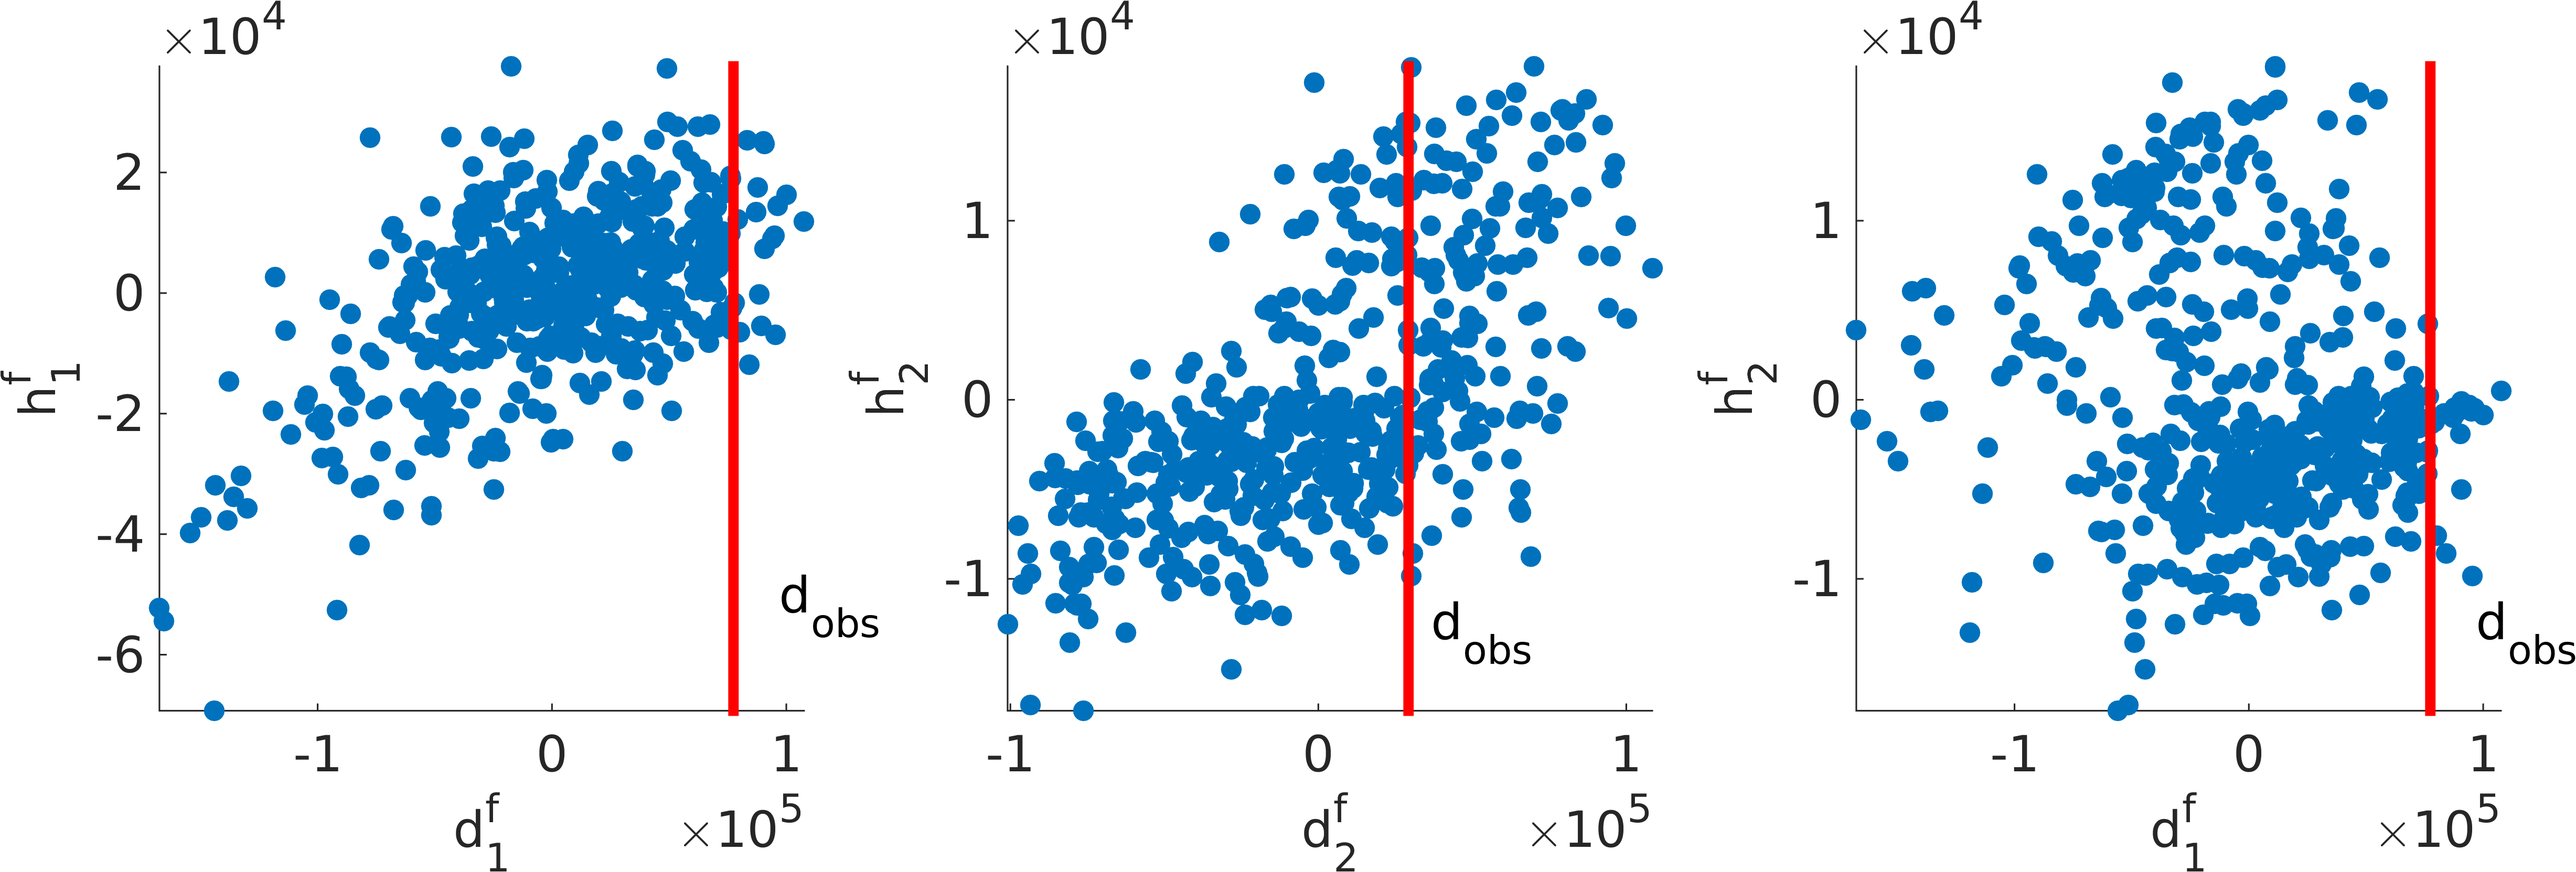
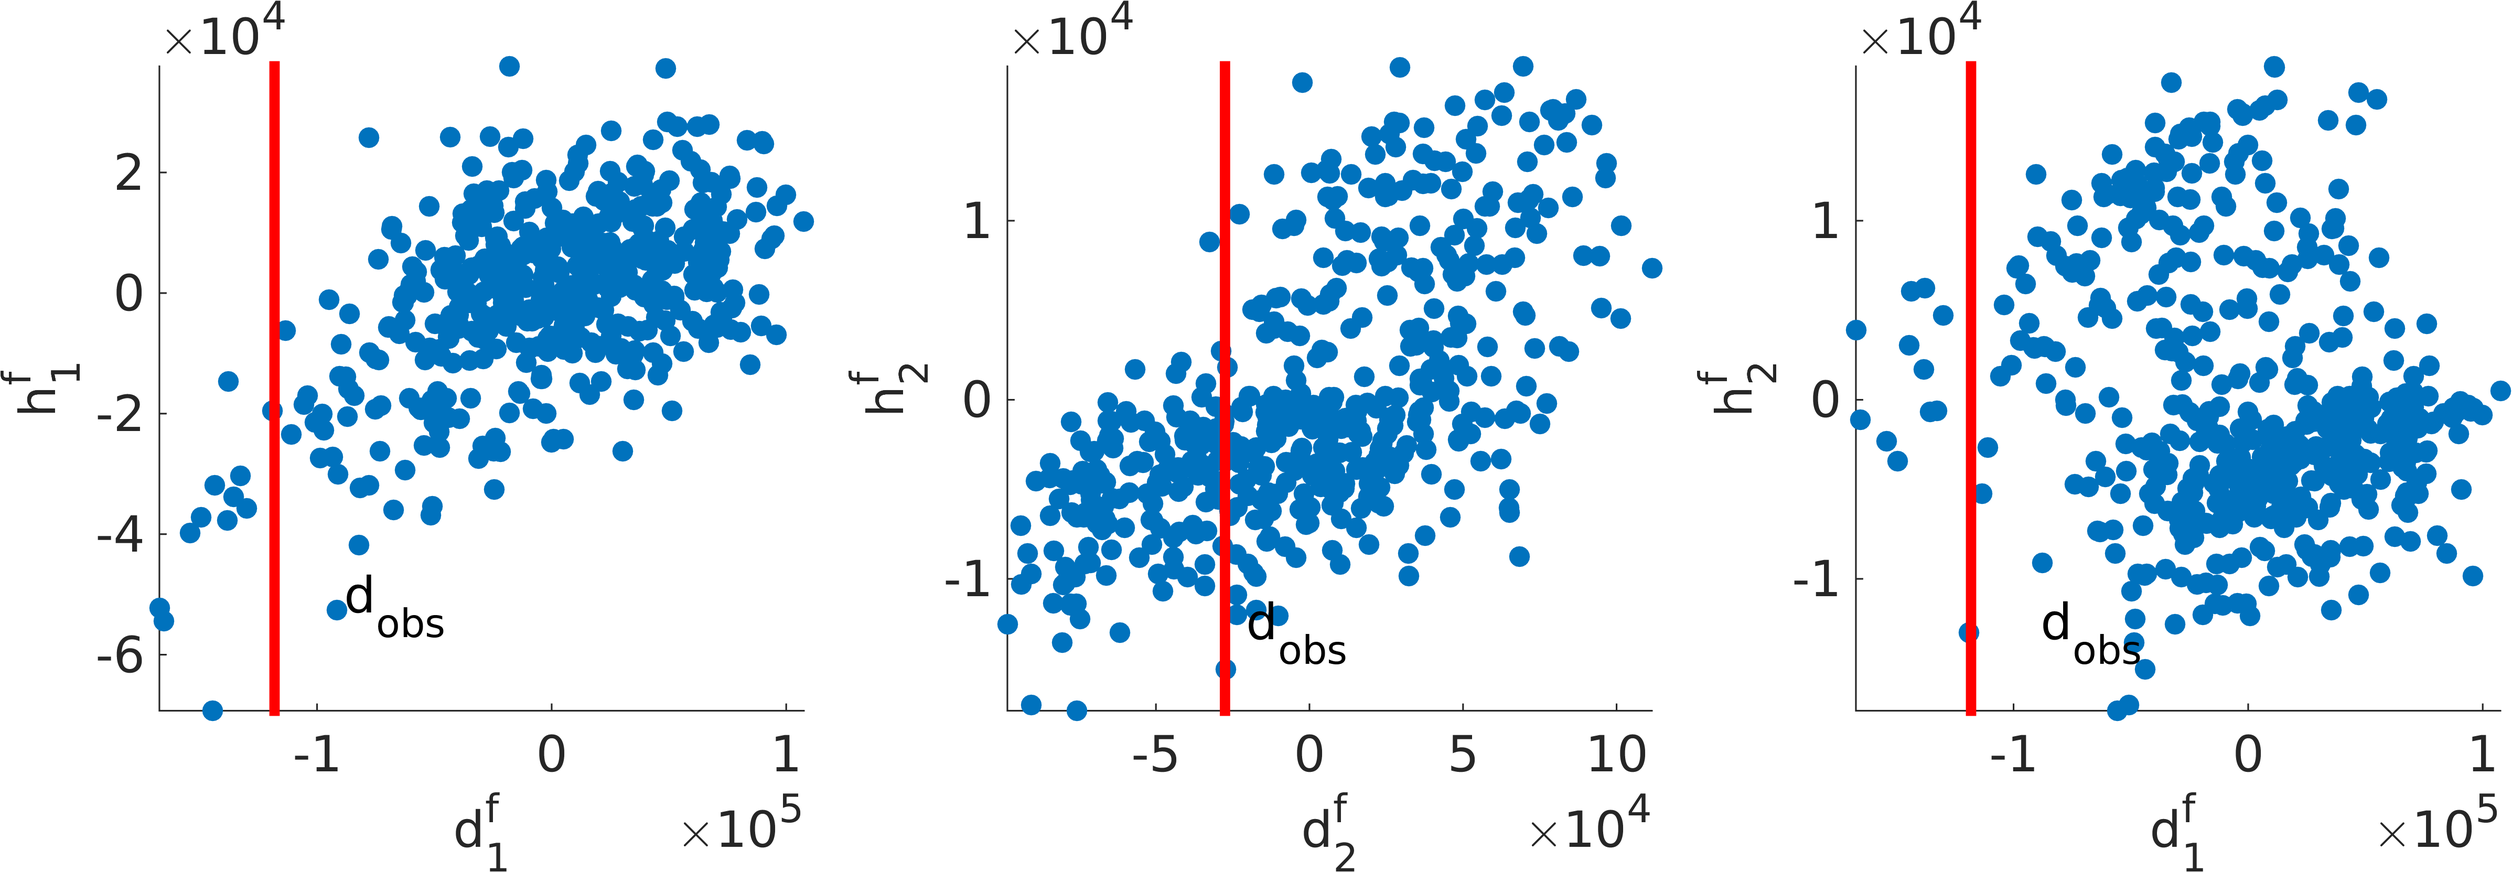
Added capability to account for measurement noise

diff --git a/src/demo/LibyanCase_2.m b/src/demo/LibyanCase_2.m
@@ -5,7 +5,7 @@ NumRealizations = 500;
 addpath('../util');
 
 load('../../data/Case2/PriorModels/Prior.mat');
-CaseName = 'LibyanCase2';
+CaseName = 'NoiseLevel500';
 %% Generate Data Structs
 ForecastColumn = 4;
 HistoricalColumn = 4;
@@ -30,7 +30,7 @@ ForecastStruct.time = linspace(3500,7500,length(ForecastStruct.time));
 
 %%
 % Set aside one realization that we will deem the "reference";
-TruthRealization = 12;
+TruthRealization = 120;
 
 close all;
 % Plot to verify data structures/choice of input/output
@@ -60,8 +60,9 @@ predPCA = ComputeHarmonicScores(ForecastStruct,3,SaveFolder);
 % after FPCA. Keeping too many eigenvalues may need to highly oscillating
 % posterior times series; while keeping too little results in oversmoothed
 % and unrealistic models
-EigenvalueTolerance = 0.95;
+EigenvalueTolerance = 0.9;
 OutlierPercentile = 95;
+epsilon = 500;
 
 % Run CFCA: The results are the mean/covariance of h*(in Gaussian space)
 % and Dc,Hc are the prior model coefficients in the canonical space
@@ -69,22 +70,23 @@ PlotLevel = 1;
 FontSize = 24;
 [ mu_posterior, C_posterior, Dc, Df, Hc, Hf, B, dobs_c] = ComputeCFCAPosterior(...
     HistoricalStruct, ForecastStruct, TruthRealization, EigenvalueTolerance,...
-    OutlierPercentile,PlotLevel,FontSize,SaveFolder);
+    OutlierPercentile,PlotLevel,FontSize,SaveFolder,epsilon);
 
 %% Sample from CFCA posterior and transform forecasts back into time domain
-NumPosteriorSamples = 100;
+close all;
+NumPosteriorSamples = 1000;
 
 [SampledPosteriorRealizations,Hf_post]= SampleCanonicalPosterior(...
     mu_posterior,C_posterior,NumPosteriorSamples,Hc,B,Hf,...
     ForecastStruct.time,predPCA,0,0,0,SaveFolder);
 
-% % Compute quantiles
-% [PriorQuantiles, PosteriorQuantiles] = ComputeQuantiles(...
-%     ForecastStruct.data, SampledPosteriorRealizations);
-% 
-% % Plot sampled responses and quantiles
-% PlotPosteriorSamplesAndQuantiles(ForecastStruct,TruthRealization, ...
-%     SampledPosteriorRealizations,PriorQuantiles,PosteriorQuantiles);
-% 
-% display(['Average Posterior Distance: ' num2str(mean(PosteriorQuantiles(3,:) - ...
-%     PosteriorQuantiles(1,:)))]);
+% Compute quantiles
+[PriorQuantiles, PosteriorQuantiles] = ComputeQuantiles(...
+    ForecastStruct.data, SampledPosteriorRealizations);
+close all;
+% Plot sampled responses and quantiles
+PlotPosteriorSamplesAndQuantiles(ForecastStruct,TruthRealization, ...
+    SampledPosteriorRealizations,PriorQuantiles,PosteriorQuantiles,SaveFolder);
+
+display(['Average Posterior Distance: ' num2str(mean(PosteriorQuantiles(3,:) - ...
+    PosteriorQuantiles(1,:)))]);

diff --git a/src/cfca/ComputeCFCAPosterior.m b/src/cfca/ComputeCFCAPosterior.m
@@ -1,6 +1,6 @@
 function [ mu_posterior, C_posterior,Dc,Df,Hc,Hf, B, dobs_c] = ...
     ComputeCFCAPosterior(HistoricalStruct, ForecastStruct, TruthRealization, ...
-    EigenTolerance,OutlierPercentile,PlotLevel,FontSize,SavePath)
+    EigenTolerance,OutlierPercentile,PlotLevel,FontSize,SavePath,epsilon)
 %ComputeCFCAPosterior Computes posterior distribution of forecasts
 %conditioned to d_obs
 %   Performs CFCA to compute posterior mean and covariance in canonical
@@ -111,12 +111,12 @@ dobs_c=(dobs_fpca-mean(score))*A;
 
 if (PlotLevel == 1)
     PlotLowDimModels(Dc,Hc,dobs_c,'c',FontSize);
-     if SaveOn == true
-            export_fig([SavePath 'Dc_Hc'], '-png','-m3');
-     end
+    if SaveOn == true
+        export_fig([SavePath 'Dc_Hc'], '-png','-m3');
+    end
     PlotLowDimModels(Df,Hf,dobs_fpca,'f',FontSize);
     if SaveOn == true
-            export_fig([SavePath 'Df_Hf'], '-png','-m3');
+        export_fig([SavePath 'Df_Hf'], '-png','-m3');
     end
 end
 
@@ -130,9 +130,19 @@ G = Dc'/Hc_gauss';
 DDiff= Dc'-G*Hc_gauss';
 C_T = DDiff*DDiff'/length(Dc);
 
+
+if epsilon ==0
+    C_Dc = zeros(size(C_T));
+else
+    C_Df = EstimateFunctionalErrorCovariance( HistoricalStruct,EigenTolerance,epsilon);
+    C_Dc = A'*C_Df*A;
+end
+
+
 % Perform Gaussian Regression
-mu_posterior = H_CG_Mean + C_H*G'*pinv(G*C_H*G' + C_T)*(dobs_c'-G*H_CG_Mean);
-C_posterior = inv(G'*pinv(C_T)*G + inv(C_H));
+mu_posterior = H_CG_Mean + C_H*G'*pinv(G*C_H*G' + C_T+C_Dc)*(dobs_c'-G*H_CG_Mean);
+C_posterior = C_H - C_H*G'*inv(G*C_H*G' + C_T+C_Dc)*G*C_H;
+%C_posterior = inv(G'*pinv(C_T)*G + inv(C_H));
 
 end
 

diff --git a/src/cfca/ComputeMixedPCAScores.m b/src/cfca/ComputeMixedPCAScores.m
@@ -1,0 +1,49 @@
+function [ score ] = ComputeMixedPCAScores( HistoricalStruct,EigenTolerance )
+%UNTITLED3 Summary of this function goes here
+%   Detailed explanation goes here
+
+% Compute d_f for noiseless
+NummRealizations = size(HistoricalStruct.data,1);
+NumTimeSteps = size(HistoricalStruct.data,2);
+NumHistoricalResponses = size(HistoricalStruct.data,3);
+PlotLevelPCA = 0;
+MinEigenValues = 2;
+
+
+histPCA = ComputeHarmonicScores(HistoricalStruct,PlotLevelPCA);
+
+
+% Get number of required harmonics required for forecasts
+nHarmHist = 0;
+for i = 1:NumHistoricalResponses
+    responseNumHarms = GetNumHarmonics(histPCA{i},...
+        MinEigenValues,EigenTolerance);
+    nHarmHist = max(nHarmHist,responseNumHarms);
+end
+
+% Generate matrix of historical harmonic scores
+Df = zeros(NummRealizations,nHarmHist*NumHistoricalResponses);
+
+% Iterate over each historical response (ex: P1, P2)
+for i = 1:NumHistoricalResponses
+    harmscrhist=histPCA{i}.harmscr;
+    
+    % Need to re-arrange harmonic scores into Df such that the first
+    % eigenvalues are placed in first
+    for j = 1:nHarmHist
+        Df(:,(i-1)*nHarmHist + j) = harmscrhist(:,j);
+    end
+end
+
+
+% Run PCA On Df
+% Poor naming choice by FDA package... we need to remove it from the path
+% in order to run PCA
+rmpath('../../thirdparty/fda_matlab');
+DfStar = Df;
+[~,score,~] = pca(DfStar);
+
+
+
+end
+

diff --git a/src/cfca/EstimateFunctionalErrorCovariance.m b/src/cfca/EstimateFunctionalErrorCovariance.m
@@ -1,0 +1,32 @@
+function [ C_f ] = EstimateFunctionalErrorCovariance( HistoricalStruct, EigenTolerance,epsilon)
+%EstimateFunctionalErrorCovariance Uses a Monte Carlo approach to compute
+%   Detailed explanation goes here
+addpath('../cfca');
+% Step 1: Extract
+
+NummRealizations = size(HistoricalStruct.data,1);
+NumTimeSteps = size(HistoricalStruct.data,2);
+NumHistoricalResponses = size(HistoricalStruct.data,3);
+
+
+noiseless_scores = ComputeMixedPCAScores(HistoricalStruct,EigenTolerance);
+
+% 
+df_error = zeros(size(noiseless_scores));
+
+for i = 1:NummRealizations
+     fprintf('Working on realization %d\n',i)
+     NoisyStruct = HistoricalStruct;
+     
+     NoisyStruct.data(i,:,:) = HistoricalStruct.data(i,:,:) + ...
+         randn(1,NumTimeSteps,NumHistoricalResponses)*epsilon;
+     
+     noisy_score = ComputeMixedPCAScores(NoisyStruct,EigenTolerance);
+     df_error(i,:) = noisy_score(i,:) - noiseless_scores(i,:);
+
+end
+ 
+C_f = cov(df_error);
+
+end
+
